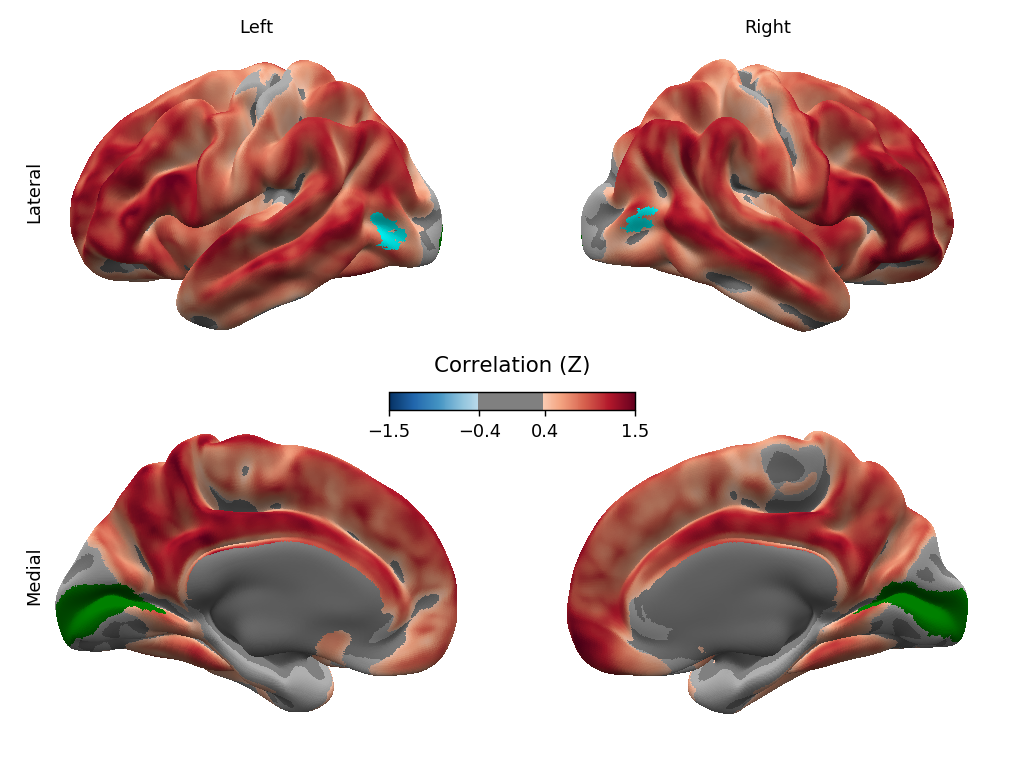
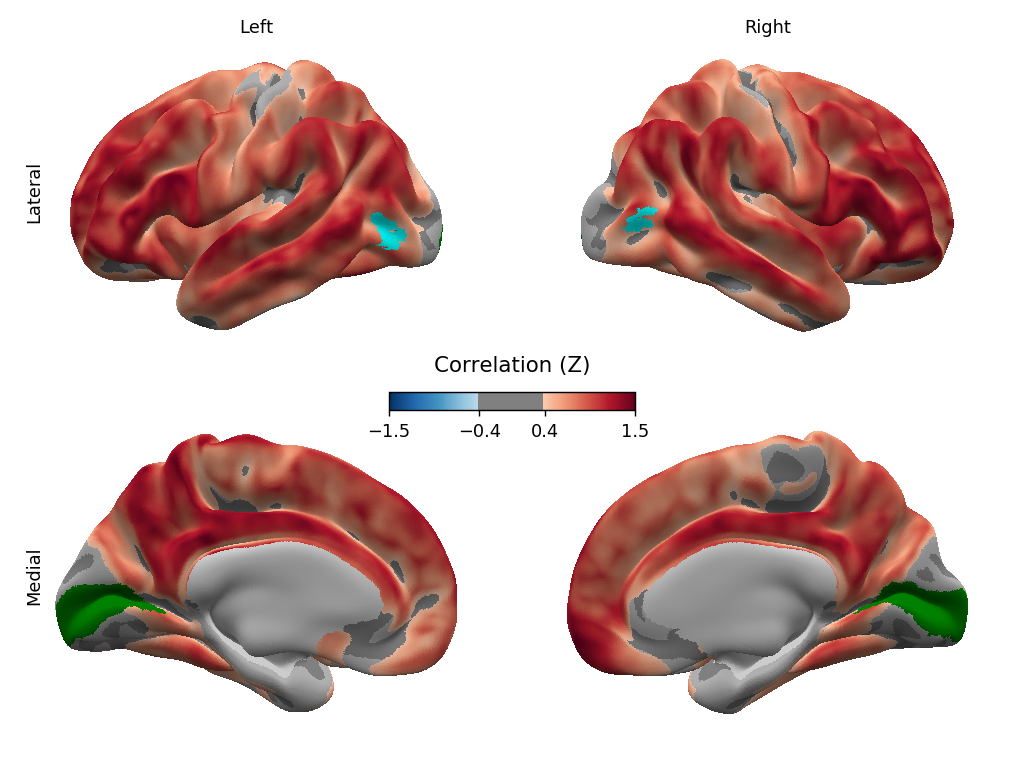
medial wall is now light grey

Changed region(s): [[0.625, 0.6875, 0.8438, 0.9062], [0.1562, 0.6875, 0.375, 0.875]]

diff --git a/brain4views.py b/brain4views.py
@@ -259,9 +259,9 @@ def plot_surf4(meshes, overlays=None,
             overlay_faces = overlay_faces / (vmax - vmin)
             face_colors[kept_indices] = cmap(overlay_faces[kept_indices])
 
-        # make non-cortical faces middle grey
+        # make non-cortical faces light grey
         if ctx_masks is not None:
-            face_colors[masked_indices] = [0.5, 0.5, 0.5, 1]
+            face_colors[masked_indices] = [0.8, 0.8, 0.8, 1]
 
         # assign label faces to appropriate color
         for i, L in enumerate(label_mask_faces):
